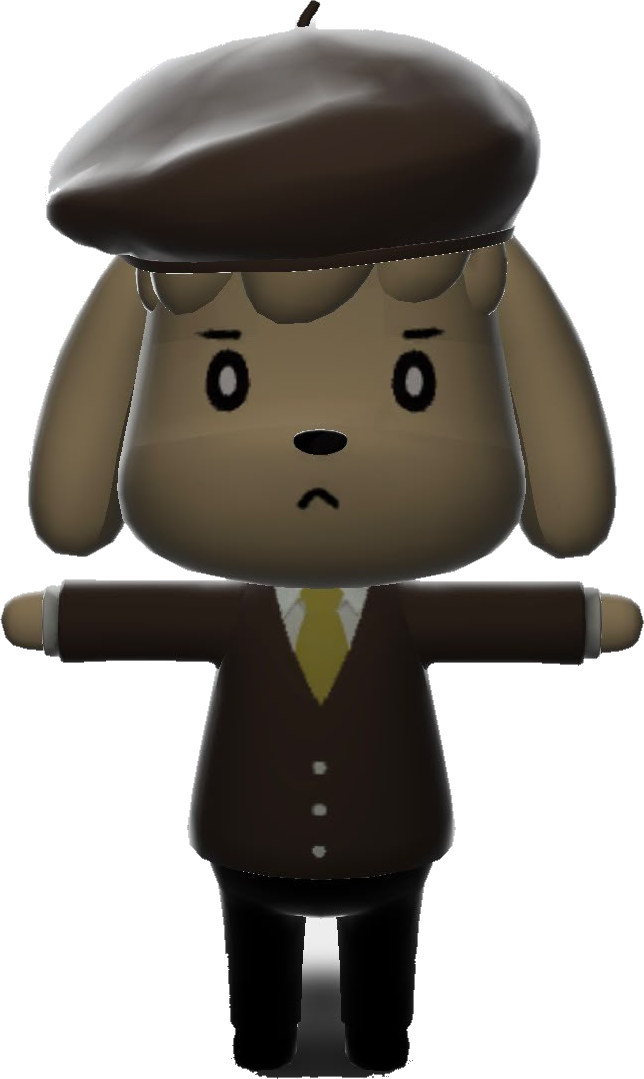
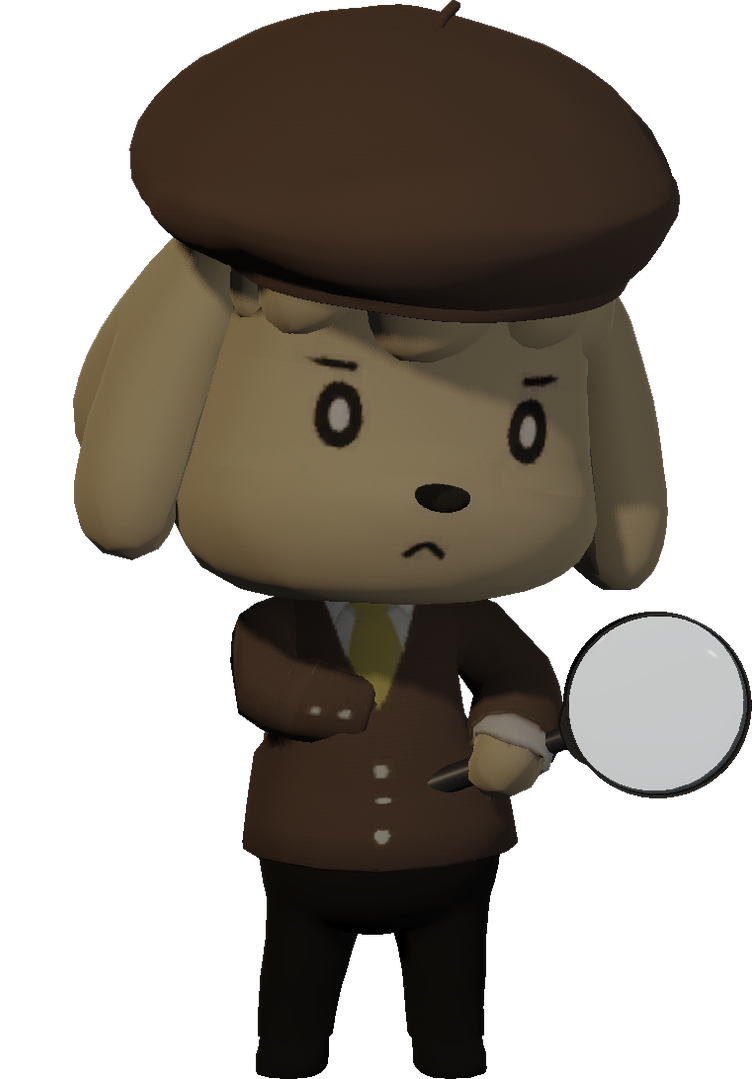
Menú de inicio: Caneloso en pose de reposo con la lupa en la mano (sin pose T)
- retratos.gd: nuevo nombre "menu" que fotografía a Caneloso de cuerpo entero
  con fondo transparente, congelado en anim_agarrar a los 1.2 s (una mano en
  el pecho) y con la lupa 3D de Poly Haven en la mano derecha
  (BoneAttachment3D). Se puede elegir otra pose con menu:<animación>:<segundo>.
  Misma altura, pies abajo y cadera centrada que la imagen anterior, con sus
  colores apagados.
- Assets/Menu/caneloso.png regenerada con esa pose.
- FondoMenu.cs: se quita la lupa 2D, que ahora viene en la imagen.

diff --git a/game/Escenas/Menus/Fondo/FondoMenu.cs b/game/Escenas/Menus/Fondo/FondoMenu.cs
@@ -25,7 +25,6 @@ public partial class FondoMenu : Control
 	private Control _puerta;
 	private Control _figura;
 	private TextureRect _imagenFigura;
-	private Control _lupa;
 	private TextureRect _sombraFigura;
 	private double _tiempo;
 
@@ -41,11 +40,10 @@ public partial class FondoMenu : Control
 
 	public override void _Process(double delta)
 	{
-		// Balanceo suave del personaje y de la lupa (como en el diseño)
+		// Balanceo suave del personaje (como en el diseño)
 		_tiempo += delta;
 		float t = (float)_tiempo;
 		_figura.RotationDegrees = Mathf.Sin(t * 0.7f) * 1.6f;
-		_lupa.RotationDegrees = -12f + Mathf.Sin(t * 1.1f) * 14f + Mathf.Sin(t * 2.3f) * 3f;
 
 		_tiempoRestante -= delta;
 		if (_tiempoRestante > 0.0) return;
@@ -176,7 +174,8 @@ public partial class FondoMenu : Control
 	}
 
 	// Caneloso delante de la puerta (medidas del diseño a 1920×1080): 540 px de alto (50vh),
-	// los pies al 15 % del borde inferior y centrado con la puerta.
+	// los pies al 15 % del borde inferior y centrado con la puerta. La lupa ya viene en la imagen,
+	// en su mano (la hace Herramientas/retratos.gd con el nombre "menu").
 	private void ConstruirFigura()
 	{
 		var textura = TexturaSilueta ?? GD.Load<Texture2D>(RutaCaneloso);
@@ -199,31 +198,6 @@ public partial class FondoMenu : Control
 		_figura.OffsetTop = -alto;
 		_figura.PivotOffset = new Vector2(ancho / 2f, alto); // se balancea desde los pies
 		_imagenFigura = Imagen(_figura, textura, 0, 0, 1, 1);
-
-		// Lupa en la mano derecha, que se balancea desde el mango
-		_lupa = new Control();
-		Poner(_figura, _lupa, 0.83f, 0.26f, 1.09f, 0.58f);
-		_lupa.Resized += () => _lupa.PivotOffset = new Vector2(_lupa.Size.X / 2f, _lupa.Size.Y);
-		_lupa.Draw += DibujarLupa;
-	}
-
-	private void DibujarLupa()
-	{
-		float ancho = _lupa.Size.X;
-		float radio = ancho / 2f;
-		var centro = new Vector2(radio, radio);
-		// Mango (48 % del alto, abajo)
-		float altoMango = _lupa.Size.Y * 0.48f;
-		var mango = new Rect2(radio - 8f, _lupa.Size.Y - altoMango, 16f, altoMango);
-		_lupa.DrawRect(mango, new Color("#1c130b"));
-		_lupa.DrawRect(mango.Grow(-4f), new Color("#4a3322"));
-		// Cristal con un brillo arriba a la izquierda
-		_lupa.DrawCircle(centro, radio - 6f, new Color(0.63f, 0.75f, 0.84f, 0.12f));
-		_lupa.DrawCircle(centro + new Vector2(-radio * 0.3f, -radio * 0.4f), radio * 0.45f, new Color(1, 1, 1, 0.12f));
-		_lupa.DrawCircle(centro + new Vector2(-radio * 0.3f, -radio * 0.4f), radio * 0.2f, new Color(1, 1, 1, 0.22f));
-		// Aro de madera
-		_lupa.DrawArc(centro, radio - 5f, 0, Mathf.Tau, 48, new Color("#3b2a1b"), 10f, true);
-		_lupa.DrawArc(centro, radio, 0, Mathf.Tau, 48, new Color("#1c130b"), 2.7f, true);
 	}
 
 	// ---------- Utilidades ----------
